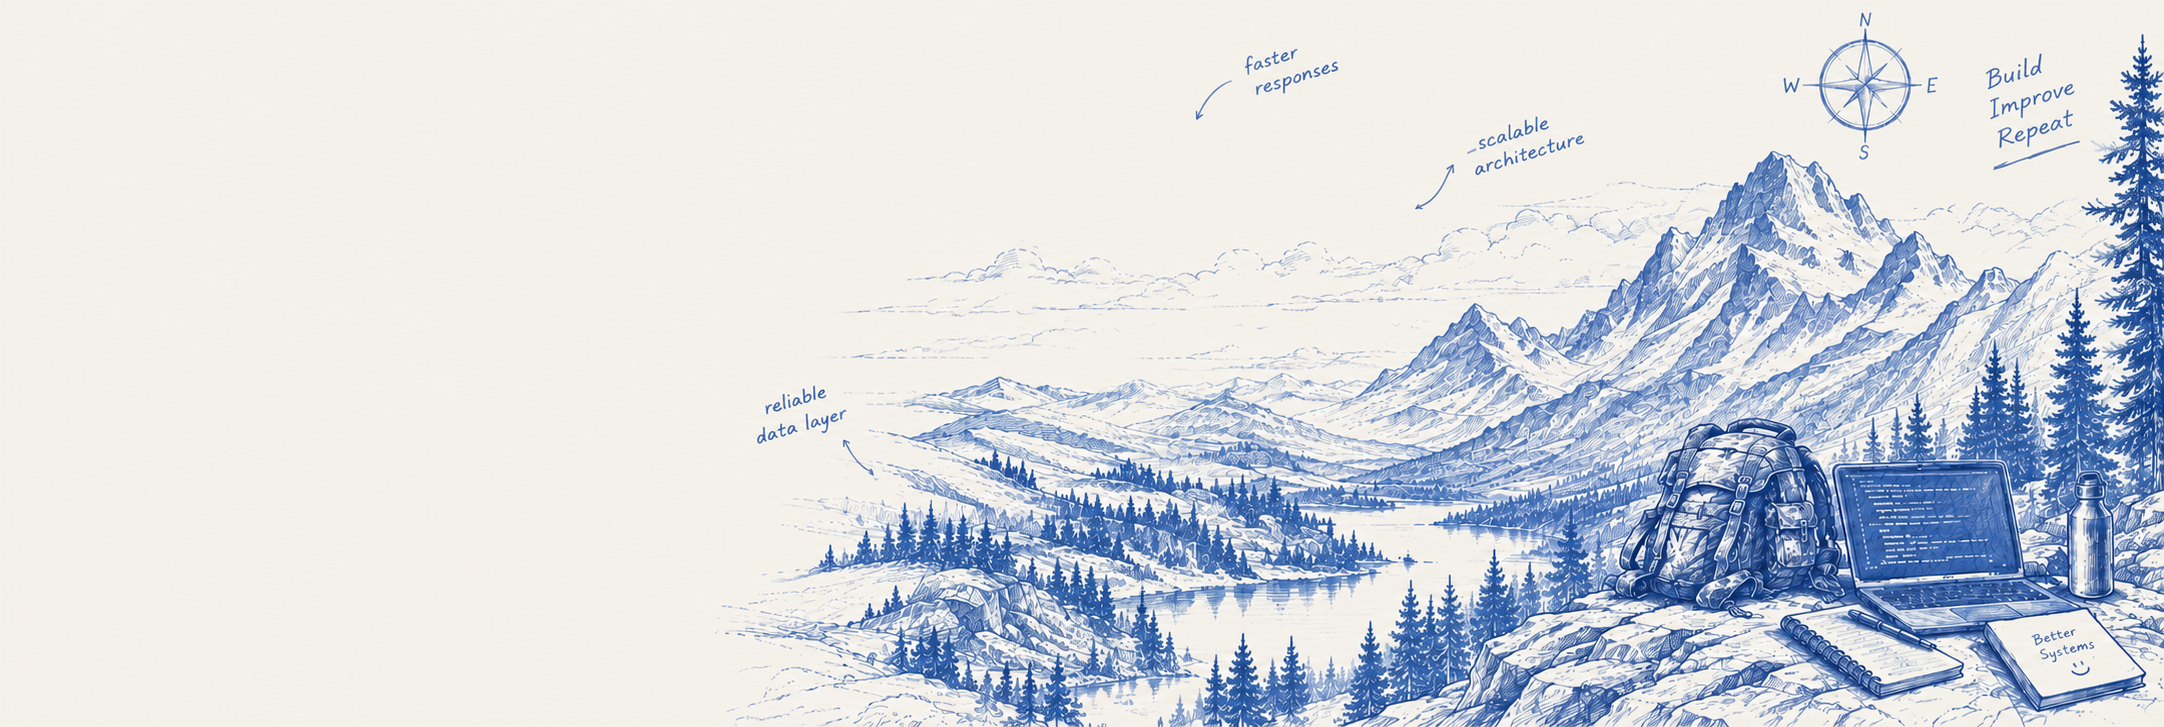
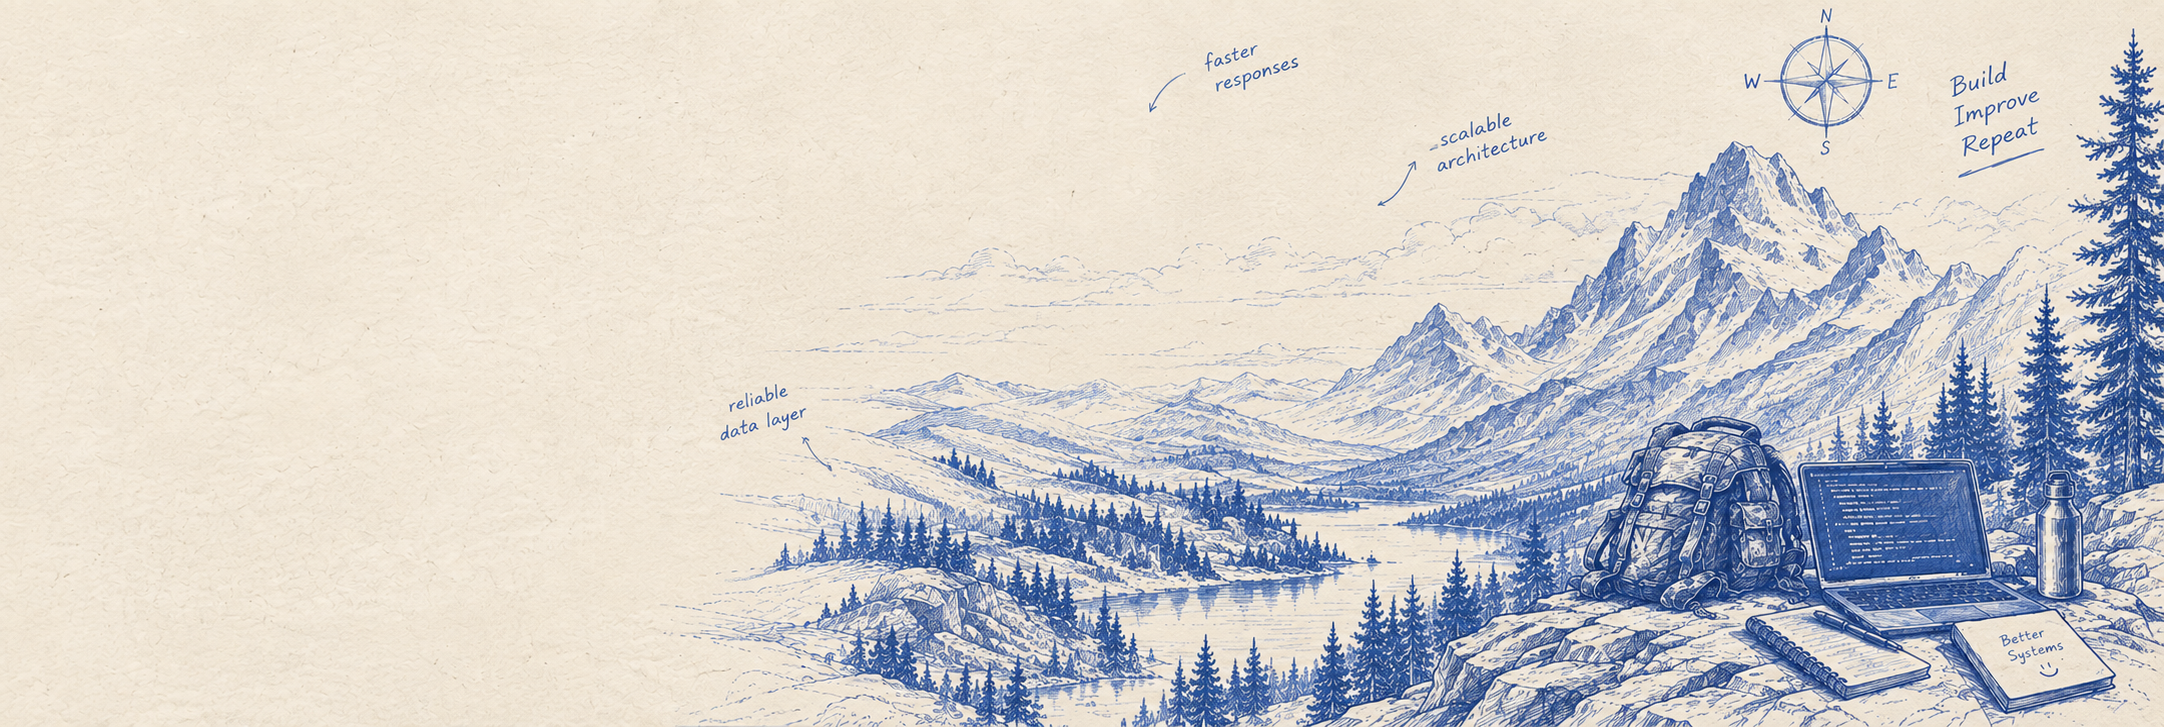
style: update global CSS variable for paper color and replace background image

diff --git a/src/styles/global.css b/src/styles/global.css
@@ -2,8 +2,7 @@
 
 /* ===== Field Notebook Design Tokens ===== */
 :root {
-  /* --paper: #ede4d3; */
-  --paper: #f3f0eb;
+  --paper: #f0e7d7;
   --paper-dark: #e4d9c4;
   --ink: #2b5699;
   --ink-deep: #1f3f78;
